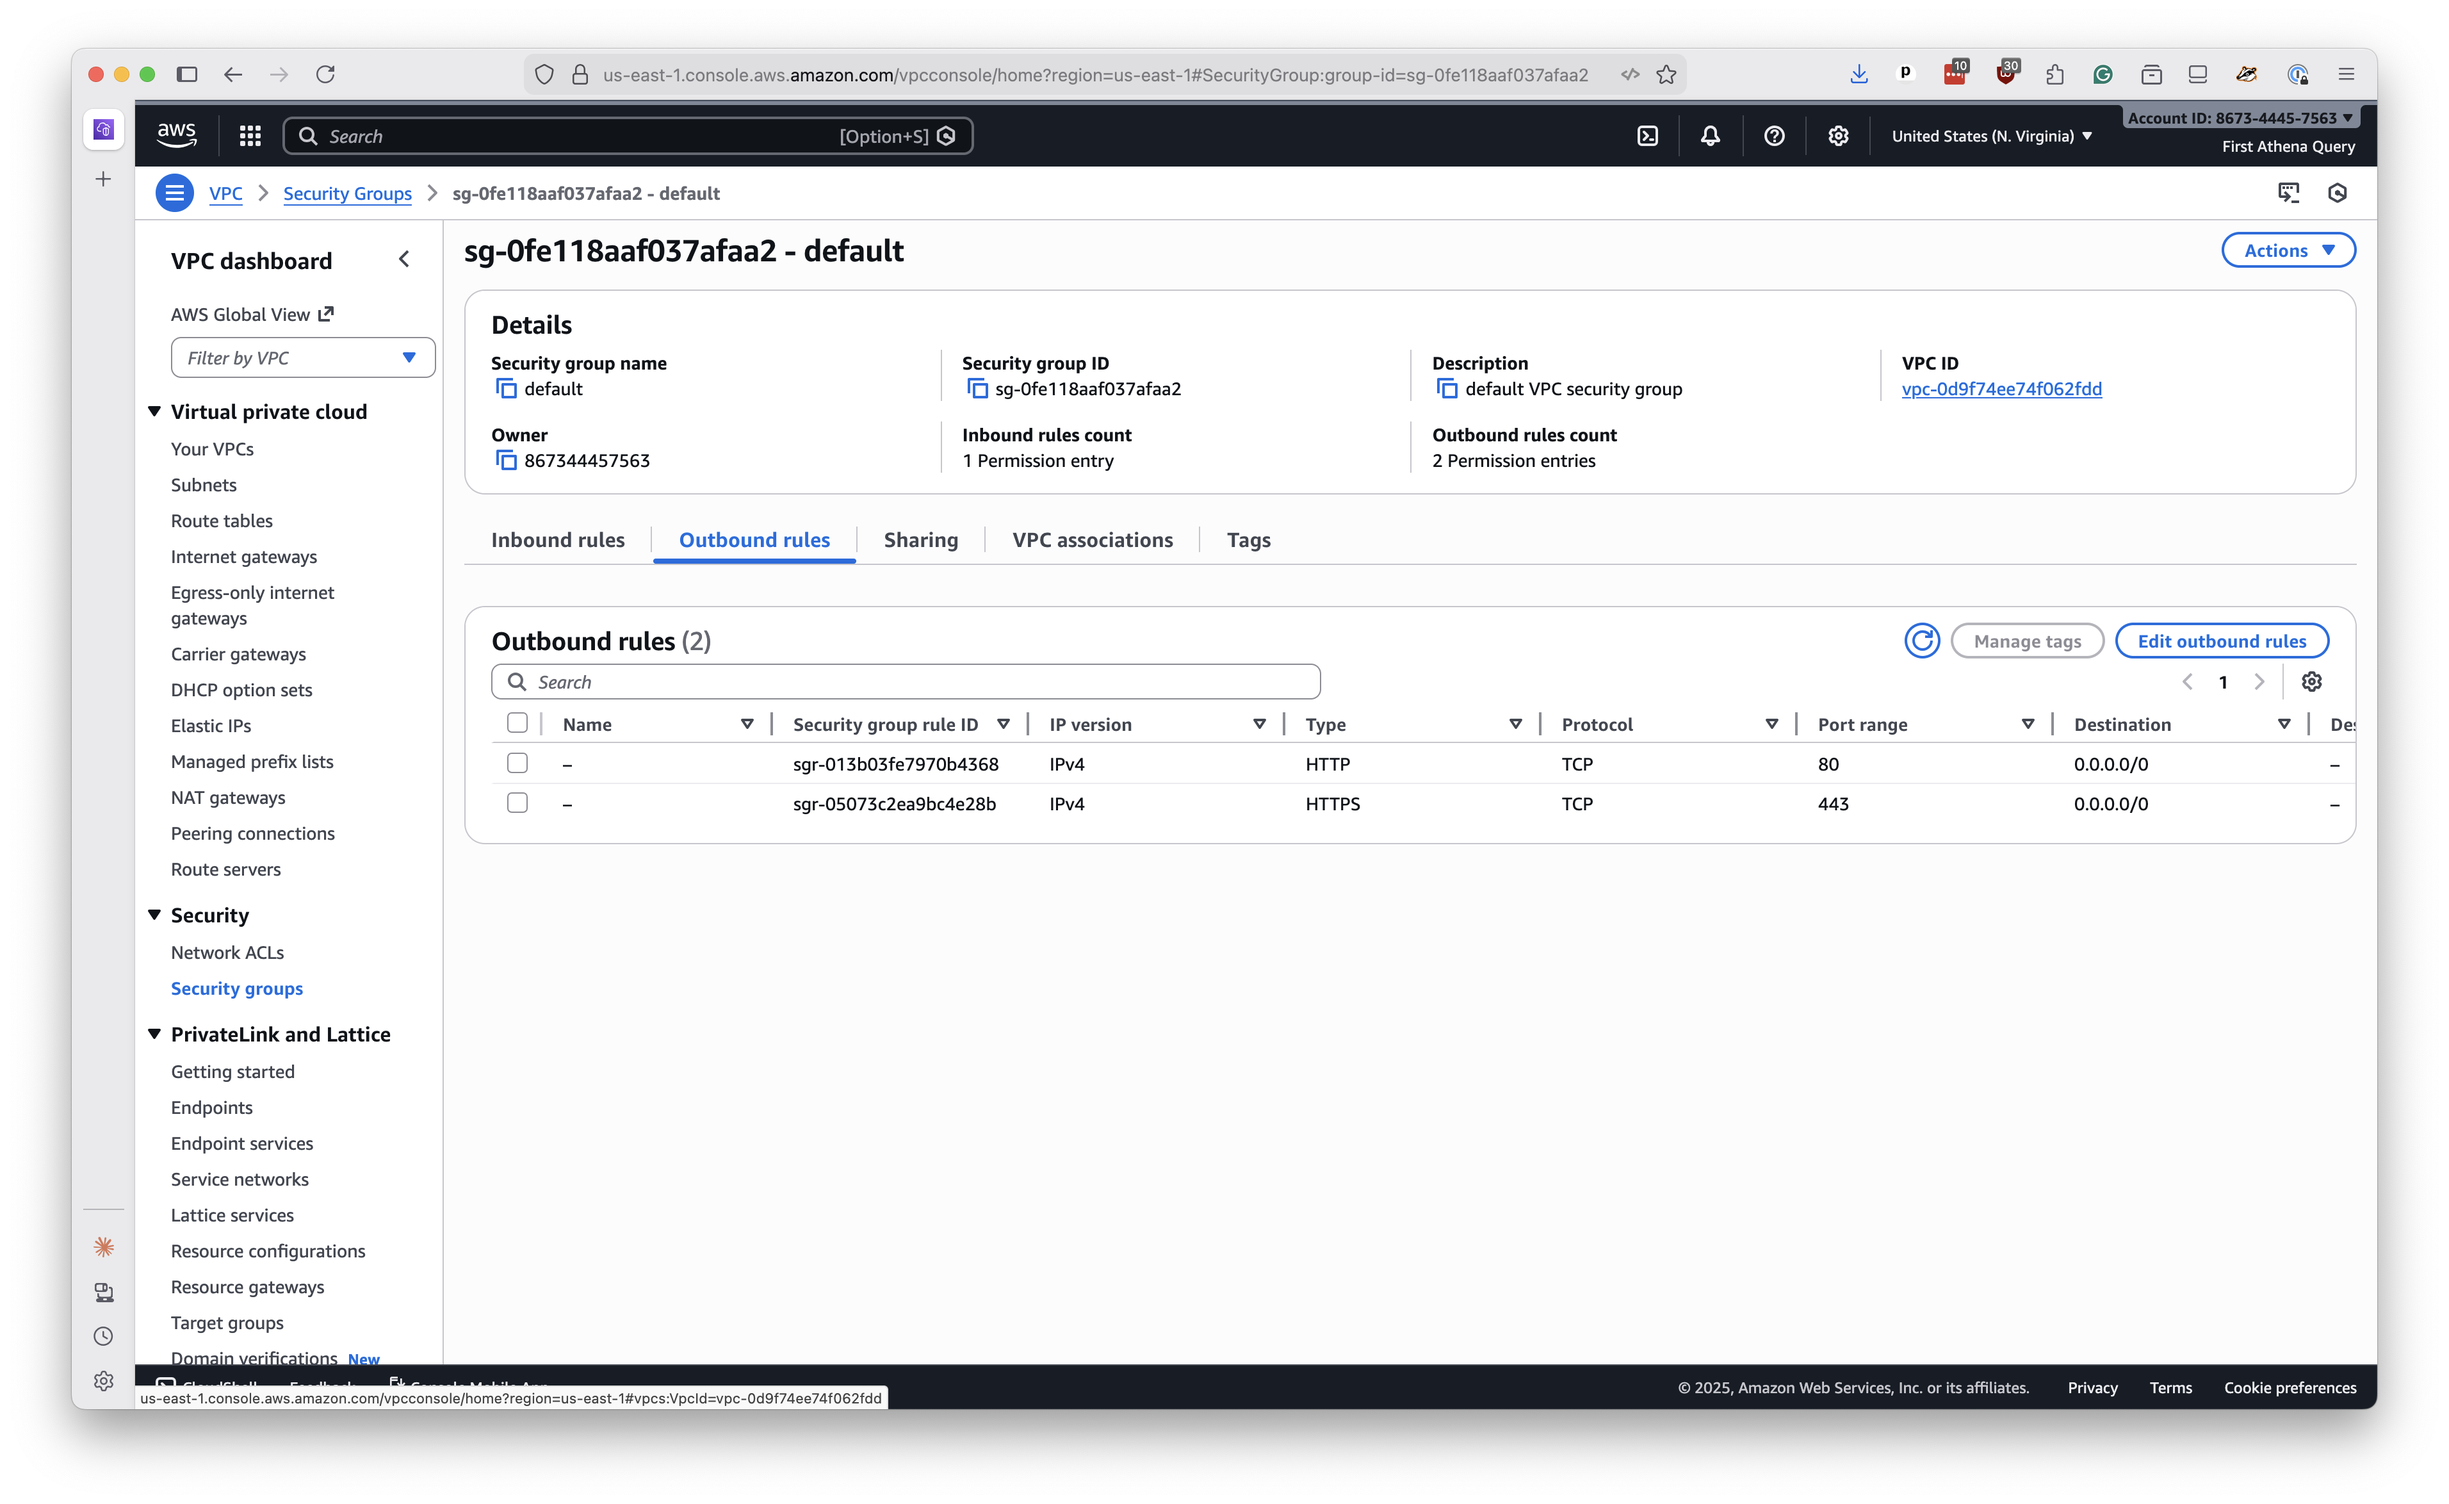
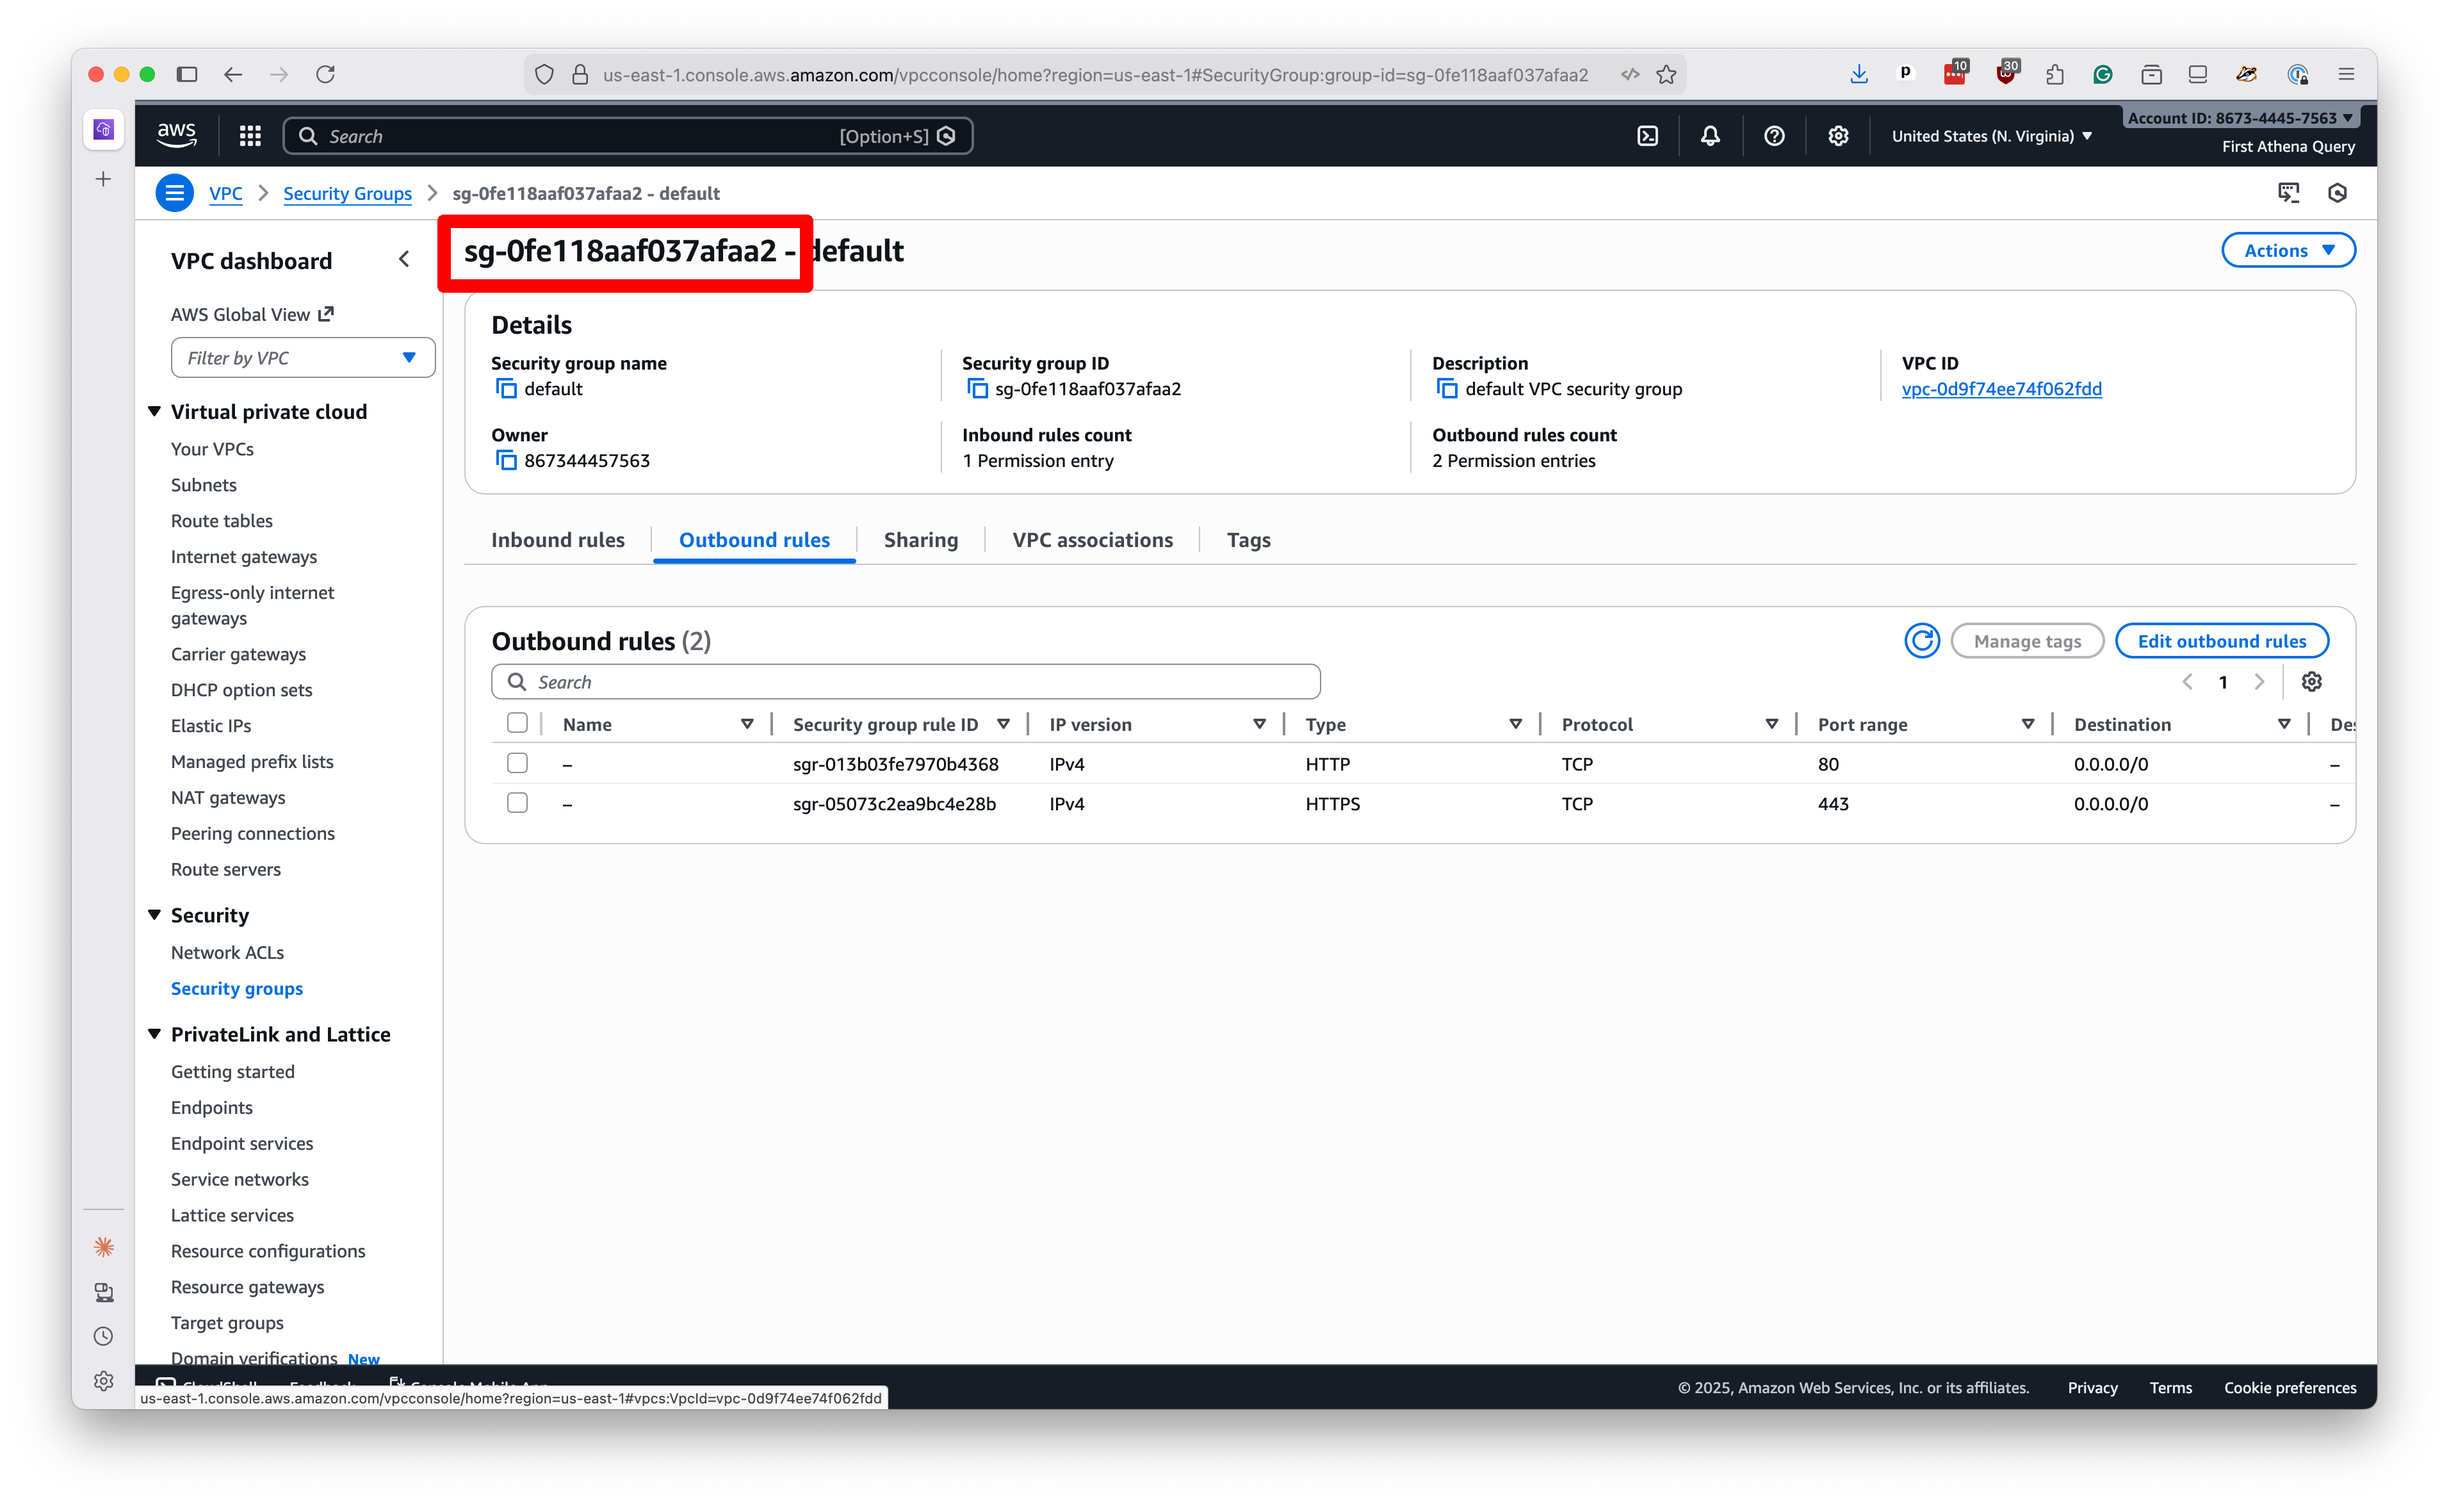
Add aws_s3_bucket_name input to reusable Planetiler workflow and update documentation for outbound rules

diff --git a/docs/configure-aws.md b/docs/configure-aws.md
@@ -110,7 +110,7 @@ Tthen click the button that says "Edit outbound rules."
 
 ![EC2 search](_static/outbound-tab.png)
 
-Now make sure there is a rule that allows for "HTTPS" traffic on port 433 to the "Custom" destination of 0.0.0.0/0, which means anywhere. If there is not, click the button that says "Add rule" and put in those options. Then click "Save rules."
+Now make sure there are rules that allow for "HTTP" traffic on port 80 and "HTTPS" traffic on port 443 to the "Custom" destination of 0.0.0.0/0, which means anywhere. If those rules are not there, click the button that says "Add rule" and put in those options. Then click "Save rules."
 
 ![EC2 search](_static/outbound-rules.png)
 
